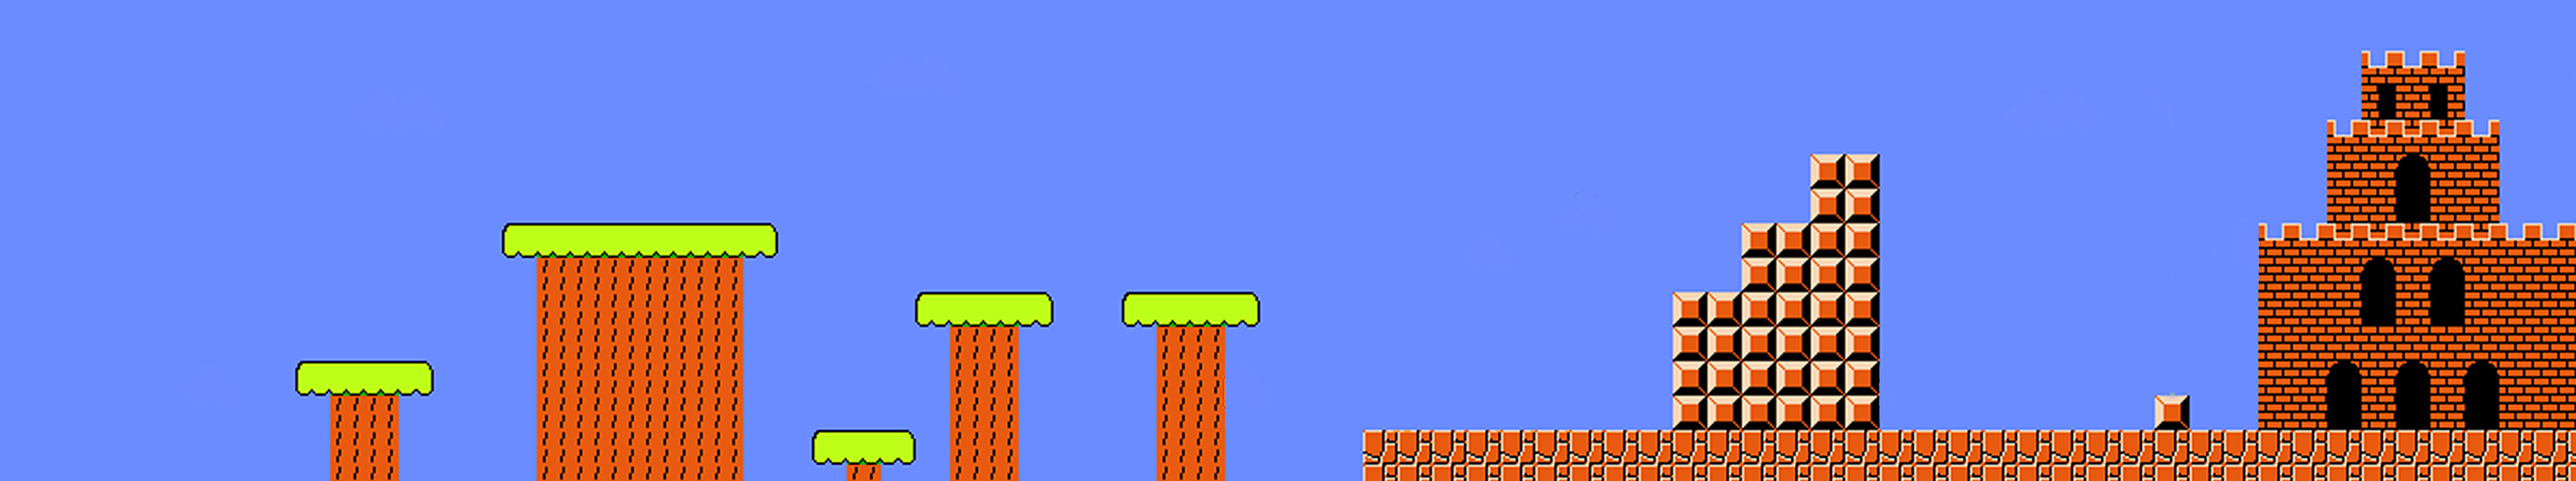
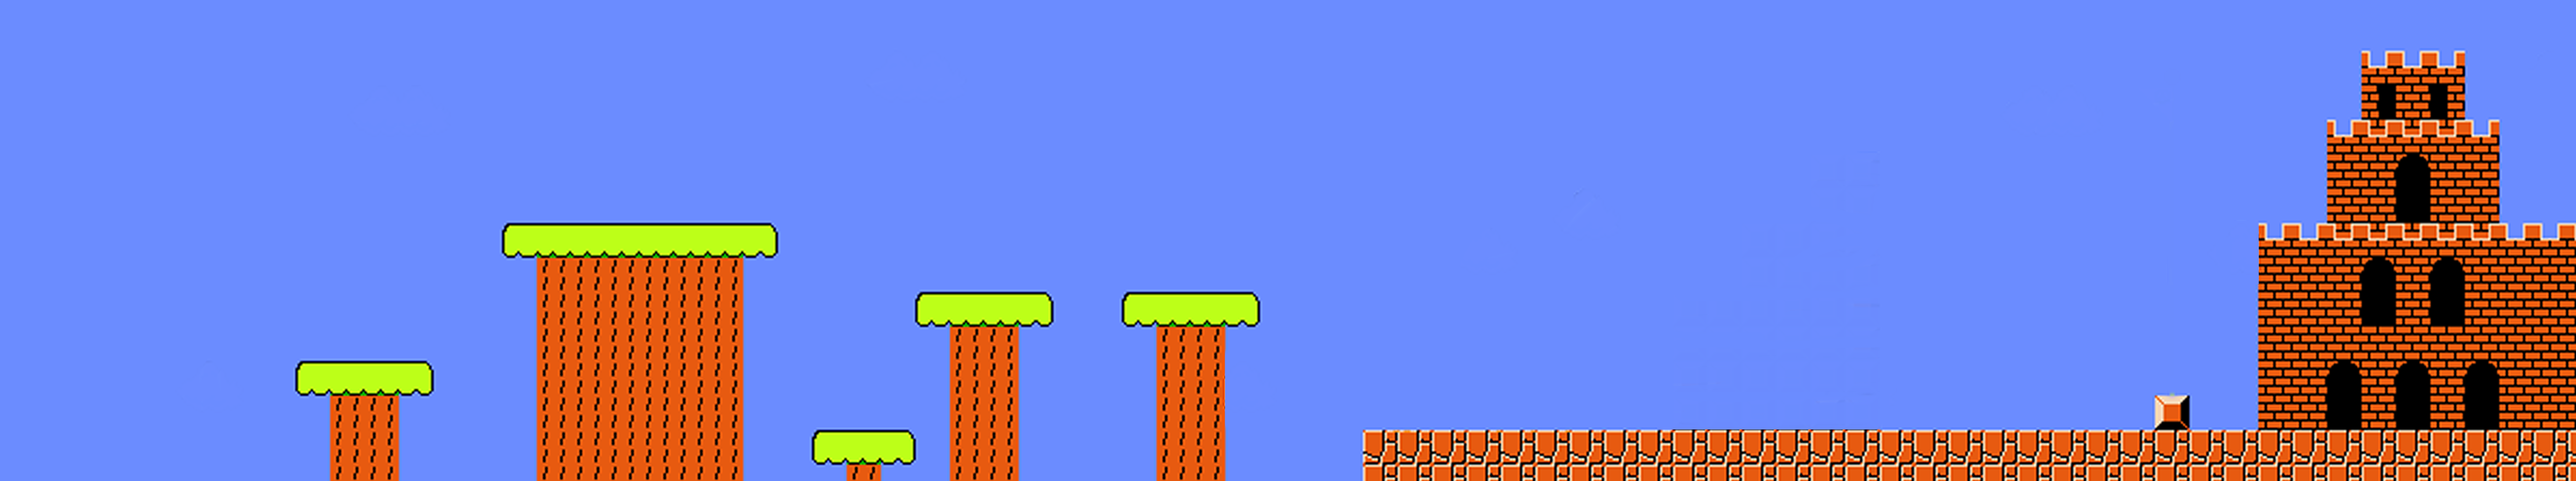
V0.29

Changed region(s): [[0.6221, 0.3125, 0.7466, 0.9062]]

diff --git a/Alfonsov2.py b/Alfonsov2.py
@@ -621,7 +621,7 @@ class GroundW3B(pygame.sprite.Sprite):
 		self.rect.left += self.dx
 
 	def reset(self):
-		self.rect.x = 8221
+		self.rect.x = 9023
 		self.rect.y = screen.get_height() - 96
 	
 def splashScreen():
@@ -730,6 +730,7 @@ def level_1():
 	scoreboard = Scoreboard() 
 	flagFloor = player.rect.y
 	flag.rect.x = 12642
+	oldScore = scoreboard.score
 
 	for goomba in range(100):
 		goombax = random.randint(level1A.rect.left, (level1B.rect.right - 1278))
@@ -862,6 +863,9 @@ def level_1():
 					flagFloor = 609
 					if scoreboard.time == 0:
 						print ("Switching")
+						if scoreboard.score > oldScore:
+							if (scoreboard.score / 10000) > scoreboard.lives:
+								scoreboard.lives = scoreboard.score / 10000
 						currentScreen = level_2(scoreboard)
 					
 		if timer == False:
@@ -953,6 +957,7 @@ def level_2(scoreboard):
 	
 	flagFloor = player.rect.y	
 	flag.rect.x = 9664
+	oldScore = scoreboard.score
 	
 	for cloud in range(20):
 		cloudx = random.randint((level2A.rect.left + 1024), (level2B.rect.right - 1278))
@@ -1080,7 +1085,6 @@ def level_2(scoreboard):
 					player.floor = (theqBox.rect.top - 64)
 					
 		if mushroomCollide:
-			print("Colide Mushroom")
 			for theMush in mushroomCollide:
 				if collide_mask(player, theMush):
 					scoreboard.lives += 1
@@ -1092,13 +1096,15 @@ def level_2(scoreboard):
 			flagcounter = flagcounter + 1
 
 		for cloud in clouds:
+			if cloud.rect.centerx < (level2A.rect.left + 1024):
+				cloud.reset()
 			if cloud.rect.centerx > (level2B.rect.right - 1278):
 				cloud.reset()
 			if cloud.rect.left >= (level2A.rect.left + 1025):
 				cloud.speed *= -1
 			if cloud.rect.left <= (level2B.rect.right - 1278):
 				cloud.speed *= -1
-					
+
 		if cloudCollide:	
 			for theCloud in cloudCollide:
 				if collide_mask(player, theCloud):
@@ -1150,6 +1156,9 @@ def level_2(scoreboard):
 					flagFloor = 609
 					if scoreboard.time == 0:
 						print ("Switching")
+						if scoreboard.score > oldScore:
+							if (scoreboard.score / 10000) > scoreboard.lives:
+								scoreboard.lives = scoreboard.score / 10000
 						currentScreen = level_3(scoreboard)
 					
 		if timer == False:
@@ -1191,7 +1200,6 @@ def level_2(scoreboard):
 		
 	pygame.mouse.set_visible(True)
 
-	
 def level_3(scoreboard):
 	screen = pygame.display.set_mode((1024, 768))
 	#, pygame.FULLSCREEN
@@ -1210,13 +1218,23 @@ def level_3(scoreboard):
 	level3B = World3B()
 	qBox = []
 	mushroom = []
+	blocks = []
 	flag = Flag()
 	groundW3A = GroundW3A()
 	groundW3B = GroundW3B()
 	
 	flagFloor = player.rect.y	
-	flag.rect.x = 9664
+	flag.rect.x = 9366
+	oldScore = scoreboard.score
 
+	BLpos = 0
+	for block in range(50):
+		# XY POS    0     1     2     3     4     5     6     7     8     9    10    11    12    13    14    15    16    17    18    19    20    21    22    23    24    25    26    27    28    29    30    31    32    33    34    35    36    37    38    39    40    41    42    43    44    45    46    47    48    49
+		blockx = [ 958, 1023, 1088, 1218, 1283, 1539, 1604, 1669, 1861, 1926, 1991, 2056, 2312, 2377, 2442, 2507, 2845, 2910, 2975, 3040, 3454, 3519, 3584, 4054, 4119, 4184, 4645, 4710, 4775, 5006, 5071, 5136, 5342, 5407, 5472, 6109, 6174, 6239, 6697, 6762, 6827, 7312, 7377, 7442, 8100, 8165, 8230, 8829, 8894, 8959]
+		blocky = [ 672,  672,  672,  672,  672,  672,  672,  672,  425,  425,  425,  425,  425,  425,  425,  425,  203,  203,  203,  203,  425,  425,  425,  672,  672,  672,  672,  672,  672,  425,  425,  425,  672,  672,  672,  672,  672,  672,  425,  425,  425,  203,  203,  203,  672,  672,  672,  672,  672,  672]
+		blocks.append(BlockT(blockx[BLpos], blocky[BLpos]))
+		BLpos += 1
+	
 	for box in range(1):
 		qBox.append(Qbox(5752, 536))
 		
@@ -1229,6 +1247,7 @@ def level_3(scoreboard):
 	playerSprites = pygame.sprite.OrderedUpdates(player)
 	scoreSprite = pygame.sprite.Group(scoreboard)
 	flagSprites = pygame.sprite.OrderedUpdates(flag)
+	blocksSprites = pygame.sprite.OrderedUpdates(blocks)
 	groundSprites = pygame.sprite.OrderedUpdates(groundW3A, groundW3B)
 
 	level3B.rect.left = (level3A.rect.right)
@@ -1269,7 +1288,8 @@ def level_3(scoreboard):
 						qBox[index].moveLeft()
 					for index in range(1):
 						mushroom[index].moveLeft()
-
+					for index in range(50):
+						blocks[index].moveLeft()
 
 		if key[pygame.K_RIGHT]:
 			player.turn = 1
@@ -1285,13 +1305,14 @@ def level_3(scoreboard):
 						qBox[index].moveRight()
 					for index in range(1):
 						mushroom[index].moveRight()
-						
-						
-		flagCollide = pygame.sprite.spritecollide(player, flagSprites, False, pygame.sprite.collide_mask)
+					for index in range(50):
+						blocks[index].moveRight()
+		
+		flagCollide = pygame.sprite.spritecollide(player, flagSprites, False, pygame.sprite.collide_mask)		
 		groundCollide = pygame.sprite.spritecollide(player, groundSprites, False, pygame.sprite.collide_mask)
 		qboxCollide = pygame.sprite.spritecollide(player, qboxSprites, False, pygame.sprite.collide_mask)
 		mushroomCollide = pygame.sprite.spritecollide(player, mushroomSprites, True, pygame.sprite.collide_mask)
-		
+		blocksCollide = pygame.sprite.spritecollide(player, blocksSprites, False, pygame.sprite.collide_mask)
 		
 		if groundCollide:	
 			for theGround in groundCollide:
@@ -1303,17 +1324,39 @@ def level_3(scoreboard):
 				if collide_mask(player, theqBox):
 					player.floor = (theqBox.rect.top - 64)
 					
+		if blocksCollide:	
+			for theBlock in blocksCollide:
+				if collide_mask(player, theBlock):
+					player.floor = (theBlock.rect.top - 64)
+					theBlock.image = pygame.image.load("block.png")
+					
 		if mushroomCollide:
-			print("Colide Mushroom")
 			for theMush in mushroomCollide:
 				if collide_mask(player, theMush):
 					scoreboard.lives += 1
-		
+					
 		if 	flagCollide:
 			player.floor = flagFloor
 			collideFlag = True
-			Level_Finish_3 = True
+			Level_Finish_2 = True
 			flagcounter = flagcounter + 1
+		
+		if player.rect.top >= screen.get_height() + 1:
+			print ("dead")
+			scoreboard.score = 0
+			scoreboard.lives -= 1
+			for index in range(1):
+				qBox[index].reset()
+			for index in range(1):
+				mushroom[index].reset()
+			for index in range(50):
+				blocks[index].reset()	
+			player.reset()
+			level3A.reset()
+			level3B.reset()
+			flag.rect.x = 9366
+			groundW3A.reset()
+			groundW3B.reset()
 
 		if Level_Finish_3 == True:
 			if flagcounter == 1:
@@ -1326,6 +1369,9 @@ def level_3(scoreboard):
 					flagFloor = 609
 					if scoreboard.time == 0:
 						print ("Switching")
+						if scoreboard.score > oldScore:
+							if (scoreboard.score / 10000) > scoreboard.lives:
+								scoreboard.lives = scoreboard.score / 10000
 						currentScreen = Boss_lvl(scoreboard)
 					
 		if timer == False:
@@ -1346,16 +1392,18 @@ def level_3(scoreboard):
 		playerSprites.update()
 		scoreSprite.update()
 		backgroundSprites.update()
-		flagSprites.update()
 		qboxSprites.update()
+		flagSprites.update()
+		blocksSprites.update()
 		mushroomSprites.update()
 		groundSprites.update()
 
 		backgroundSprites.draw(screen)
-		flagSprites.draw(screen)
 		qboxSprites.draw(screen)
+		blocksSprites.draw(screen)
 		mushroomSprites.draw(screen)
 		groundSprites.draw(screen)
+		flagSprites.draw(screen)
 		scoreSprite.draw(screen)
 		playerSprites.draw(screen)
 
